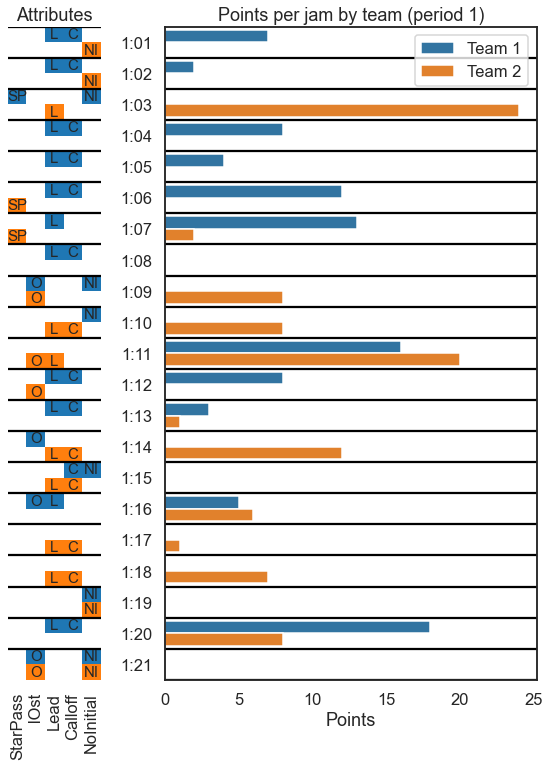
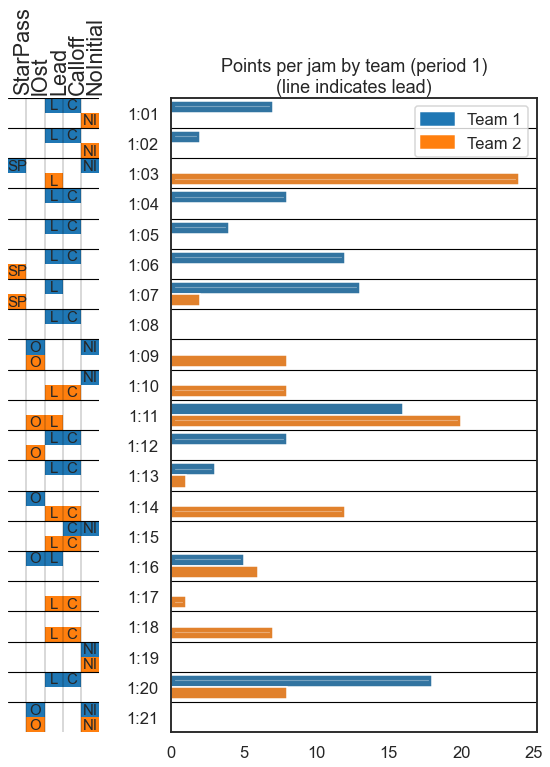
new demo plots

diff --git a/src/jamstats/plots/jamplots.py b/src/jamstats/plots/jamplots.py
@@ -201,7 +201,7 @@ def plot_jam_lead_and_scores(derby_game: DerbyGame,
     
     # add column labels up top
     for i in range(len(pdf_jambools.columns)):
-        ax.text(i + 0.25, -.5, pdf_jambools.columns[i], rotation=90, size="x-large")
+        ax.text(i + 0.25, -.5, pdf_jambools.columns[i], rotation=90, size="large")
 
     ax.get_legend().remove()
     ax.set_xlabel("")
